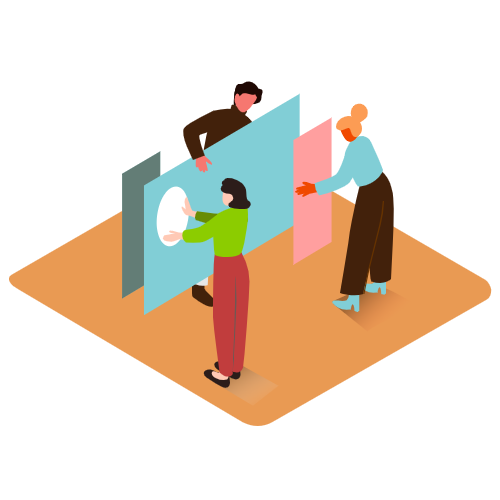
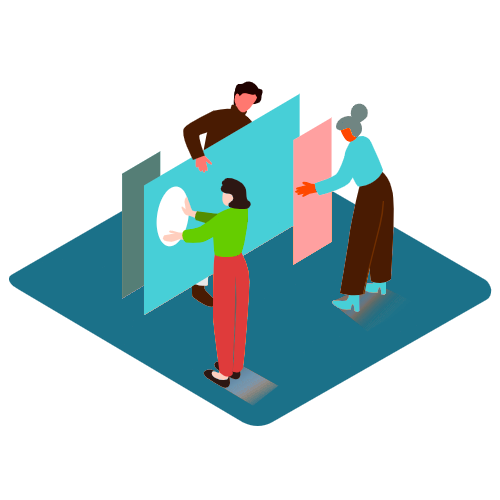
add colors and fonts

Changed region(s): [[0.0, 0.18, 0.99, 0.87]]

diff --git a/src/App.css b/src/App.css
@@ -1,4 +1,5 @@
 @import url("https://cdn.jsdelivr.net/npm/bootstrap-icons@1.9.1/font/bootstrap-icons.css");
+@import url('https://fonts.googleapis.com/css2?family=Montserrat:wght@400;600&family=Poppins:wght@700&display=swap');
 
 :root {
     --color-dark-primary:#060b06;
@@ -6,6 +7,12 @@
     --color-font:whitesmoke;
     --color-green-primary:#90ff98;
     --color-blue-primary:#4685b2;
+    --font-title: 'Poppins', sans-serif;
+    --font-text: 'Montserrat', sans-serif;
+}
+
+html{
+    scroll-behavior: smooth;
 }
 
 body {
@@ -23,6 +30,7 @@ body {
 /* -backgrounds- */
 
 .bg-green {
+    --color-font:rgb(0, 0, 0);
     background-color: var(--color-green-primary);
     color: var(--color-font);
 }
@@ -39,6 +47,12 @@ body {
     backdrop-filter: blur(24px);
 }
 
+.bg-blue {
+    background-color: var(--color-blue-primary) !important;
+    color: var(--color-font);
+}
+
+
 /* -margins- */
 
 .m-lg{
@@ -47,4 +61,46 @@ body {
 
 .m-md {
     margin: 6rem 0;
+}
+
+.p-md {
+    padding: 5rem 0;
+}
+
+/* -texts and fonts- */
+
+.f-title {
+    font-family: var(--font-title);
+}
+
+.f-subtitle {
+    font-family: var(--font-title);
+    font-weight: 600;
+}
+
+.f-text {
+    font-family: var(--font-text);
+}
+
+h1 {
+    font-family: var(--font-title);
+    font-weight: 700;
+}
+
+h2 {
+    font-family: var(--font-text);
+    font-weight: 600 !important;
+}
+
+p {
+    font-family: var(--font-text);
+}
+
+/* -medias- */
+
+
+@media only screen and (max-width: 600px) {
+    .w-50 {
+        min-width: 100%;
+    }    
 }

diff --git a/src/Components/Hero/Hero.jsx b/src/Components/Hero/Hero.jsx
@@ -1,14 +1,18 @@
+import { cardImg8 } from '../../assets/img'
 import './Hero.css'
 
 export default function Hero() {
   return (
     <>
-      <div className='row justify-content-center align-items-center bg-gradient'>
-        <div className='col-lg-8 col-10 hero text-center'>
+      <div className='row justify-content-around align-items-center bg-gradient' id='start'>
+        <div className="col-lg-4 col-10 text-center">
+          <img src={cardImg8} className='img-fluid' alt="" />
+        </div>
+        <div className='col-lg-5 col-10 hero'>
           <h1 className='display-1 fw-bold'>Desarollo web personalizado</h1>
-          <h1 className='display-3 my-4'>¿No cuentas con un sitio?</h1>
-          <p className='text-muted lead my-4'>Contamos con las herramientas y el equipo para desarrollar su próximo proyecto.</p>
-          <div className="d-flex gap-4 mt-4">
+          <h2 className='display-4 fw-normal my-4'>¿No cuentas con un sitio?</h2>
+          <p className='text-muted lead my-4'>Contamos con las herramientas y el equipo para desarrollar tu próximo proyecto.</p>
+          <div className="d-flex mt-4">
             <button className='btn btn-lg btn-primary-variant rounded-2 fw-bold'><a target={'_blank'} rel="noreferrer noopener" className='text-decoration-none text-black' href="https://forms.gle/zMb7wqPJUF1k9Y2e9">¡Contrate a nuestro equipo!</a></button>
           </div>
         </div>

diff --git a/src/Components/Help/Help.jsx b/src/Components/Help/Help.jsx
@@ -25,16 +25,16 @@ export default function Help() {
 
   return (
     <>
-      <div className="row justify-content-center m-lg">
-        <div className="col-lg-8 col-10">
+      <div className="row justify-content-center align-items-center m-lg bg-green" id="services">
+        <div className="col-lg-8 col-10 m-lg">
           <div className="m-md">
             <h1 className="display-3 fw-bold">
               ¿Cómo puede ayudarme <br />
               Fusion Design?
             </h1>
             <div className="w-50">
-              <p className="text-muted">
-                Descubre en que puede ayudarte el equipo.
+              <p className="text-muted lead">
+                Descubre en que puede ayudarte el equipo de desarrollo.
               </p>
             </div>
           </div>
@@ -50,7 +50,7 @@ export default function Help() {
                       <div className="text-center">
                         <img src={card.img} alt="" className="img-fluid" />
                       </div>
-                      <h1>{card.title}</h1>
+                      <h2 className="text-white">{card.title}</h2>
                       <p className="text-muted">{card.desc}</p>
                     </div>
                   </div>

diff --git a/src/Components/FusionDesign/FusionDesign.jsx b/src/Components/FusionDesign/FusionDesign.jsx
@@ -25,7 +25,7 @@ export default function FusionDesign() {
 
   return (
     <>
-      <div className="row justify-content-center m-lg">
+      <div className="row justify-content-center m-lg" id="about">
         <div className="col-lg-8 col-10">
           <div className="m-md">
             <h1 className="display-3 fw-bold">
@@ -33,7 +33,7 @@ export default function FusionDesign() {
               Fusion Design?
             </h1>
             <div className="w-50">
-              <p className="text-muted">
+              <p className="text-muted lead">
                 Descubre porque deberías tener en cuenta el trabajo que realizamos en equipo.
               </p>
             </div>
@@ -50,7 +50,7 @@ export default function FusionDesign() {
                       <div className="text-center">
                         <img src={card.img} alt="" className="img-fluid" />
                       </div>
-                      <h1>{card.title}</h1>
+                      <h2>{card.title}</h2>
                       <p className="text-muted">{card.desc}</p>
                     </div>
                   </div>

diff --git a/src/Components/Navbar/Navbar.jsx b/src/Components/Navbar/Navbar.jsx
@@ -14,13 +14,13 @@ export default function Navbar() {
                     <div className="collapse navbar-collapse" id="navbarSupportedContent">
                         <ul className="navbar-nav ms-4 m-lg-0">
                             <li className="nav-item">
-                                <a className="nav-link active" aria-current="page" href="#">Home</a>
+                                <a className="nav-link active" aria-current="page" href="#start">Inicio</a>
                             </li>
                             <li className="nav-item">
-                                <a className="nav-link" href="#">Link</a>
+                                <a className="nav-link" href="#services">Servicios</a>
                             </li>
                             <li className="nav-item">
-                                <a className="nav-link disabled" href="#" tabIndex="-1" aria-disabled="true">Disabled</a>
+                                <a className="nav-link" href="#about">Acerca de</a>
                             </li>
                         </ul>
                     </div>

diff --git a/src/Components/Started/Started.jsx b/src/Components/Started/Started.jsx
@@ -1,0 +1,16 @@
+import React from 'react'
+
+export default function Started() {
+  return (
+    <>
+    
+        <div className="row bg-blue align-items-center justify-content-center p-md">
+            <div className="col-12 text-center">
+                <h1 className='fw-bold mb-3'>¡Comienza ya!</h1>
+                <button className='btn btn-lg bg-dark-variant text-white mt-3'>Contactar</button>
+            </div>
+        </div>
+
+    </>
+  )
+}

diff --git a/src/App.jsx b/src/App.jsx
@@ -1,5 +1,5 @@
 import './App.css'
-import {Navbar, Hero, Help, Footer, FusionDesign} from './Components'
+import {Navbar, Hero, Help, Footer, FusionDesign, Started} from './Components'
 
 function App() {
   return (
@@ -8,6 +8,7 @@ function App() {
       <Hero/>
       <Help/>
       <FusionDesign/>
+      <Started/>
       <Footer/>
     </div>
   )

diff --git a/src/Components/index.jsx b/src/Components/index.jsx
@@ -3,11 +3,12 @@ import Hero from "./Hero/Hero";
 import Help from "./Help/Help";
 import Footer from "./Footer/Footer";
 import FusionDesign from "./FusionDesign/FusionDesign";
-
+import Started from "./Started/Started";
 export{
     Navbar, 
     Hero, 
     Help,
     FusionDesign,
+    Started,
     Footer,
 };

diff --git a/src/Components/Footer/Footer.jsx b/src/Components/Footer/Footer.jsx
@@ -4,7 +4,7 @@ export default function Footer() {
 return (
 <>
 
-  <div className='row justify-content-center bg-dark-variant'>
+  <div className='row justify-content-center bg-dark-variant pt-4'>
     <div className='col-lg-8 col-10 p-4'>
       <div className="container">
         <footer className='pt-4'>

diff --git a/src/Components/Hero/Hero.css b/src/Components/Hero/Hero.css
@@ -2,6 +2,5 @@
     min-height:100vh;
     display: flex;
     flex-direction: column;
-    align-items: center;
     justify-content: center;
 }
